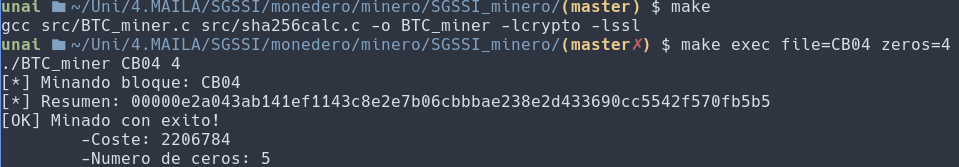
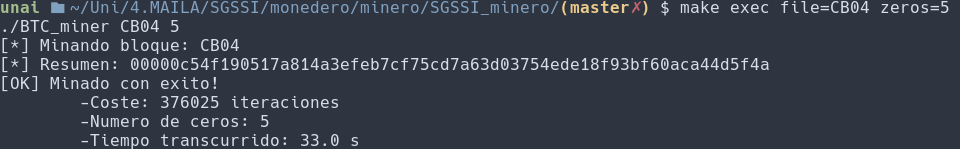
code fixes & comment and README.md update

Changed region(s): [[0.0, 0.0, 0.9979, 0.9933]]

diff --git a/src/BTC_miner.c b/src/BTC_miner.c
@@ -1,3 +1,13 @@
+/*=========================================================================
+ *
+ *  Author: Unai Fernandez
+ *  Date: 2021-10-19
+ *
+ *  Execute:
+ *	./BTC_miner <file> <number>
+ *
+ ==========================================================================*/
+
 #include <stdio.h>
 #include <stdlib.h>
 #include <errno.h>
@@ -6,22 +16,18 @@
 #include <string.h>
 #include <time.h>
 
+#include "BTC_miner.h"
 #include "sha256calc.h"
 
-#define MAX_LINE_LENGTH 64
-
-void __error(int cod, char *s);
-void copy_file(FILE *f1, char *filename, FILE *f2, char new_filename[20], char hex[9]);
-void copy_file_final(FILE *f1, char filename[20], FILE *f2, char new_filename[20]);
-void random_hex(char hex[9], uint32_t n);
-int count_zeros(char hash[65]);
-
+/*
+ * Función principal
+ */
 int main(int argc, char * argv[]){
     
     //Comprobar los argumentos
     if(argc != 3){
 	printf("ERROR: Bad argument!");
-	printf("\nUse: ./BTC_miner file");
+	printf("\nUse: ./BTC_miner <file> <number>");
 	exit(0);
     }
 
@@ -35,27 +41,25 @@ int main(int argc, char * argv[]){
     
     time_t start, end;
     double dif;
-    //int sec = 0, trigger = 60;
-    //clock_t before = clock();
-    //clock_t difference;
     //n = 0;
 
 
     //Nombre del nuevo fichero
     filename = argv[1];
     max = atoi(argv[2]);
+    max--;
     sprintf(new_filename, "new_%s", filename);
     sprintf(final_filename, "final_%s", filename);
-    //printf("New:%s\n", new_filename);
 
+
+    //Inicio del minado del bloque
     printf("[*] Minando bloque: %s\n", filename);
 
     time(&start);
     while(find == 0){
-    //while(sec < trigger){
-	//difference = clock() - before;
-	//sec = difference / CLOCKS_PER_SEC;
+	//sumar iteraciones
 	iter++;
+	
 	//Calcular hexadecimal aleatorio e insertarlo en el bloque
 	random_hex(hex_num, n);
 	//n++;
@@ -63,7 +67,6 @@ int main(int argc, char * argv[]){
     
 	//Hash del fichero
 	sha256_file(new_filename, hash1);
-	//printf("hash: %s\n", hash1);
 
 	//contar el numero de ceros
 	count = count_zeros(hash1);
@@ -80,10 +83,13 @@ int main(int argc, char * argv[]){
 
 
     printf("[*] Resumen: %s\n", hash1);
-    printf("[OK] Minado con exito!\n	-Coste: %d\n	-Numero de ceros: %d\n	-Tiempo transcurrido:%1.1f s\n", iter, count, dif);
+    printf("[OK] Minado con exito!\n	-Coste: %d iteraciones\n	-Numero de ceros: %d\n	-Tiempo transcurrido: %1.1f s\n", iter, count, dif);
     
 }
 
+/*
+ * Función para printear el error.
+ */
 void __error(int cod, char *s){
     switch(cod){
 	case 0:
@@ -95,16 +101,19 @@ void __error(int cod, char *s){
     exit(0);
 }
 
+/*
+ * Función para guardar un valor hexadecimal aleatorio en la variable hex
+ */
 void random_hex(char hex[9], uint32_t n){
-   
-
     FILE * f = fopen("/dev/urandom", "rb");
     fread(&n, sizeof(uint32_t), 1, f);
     sprintf(hex, "%08x", n);
-    //printf("hex: %s\n", hex);
     fclose(f);
 }
 
+/*
+ * Función para copiar el contenido del bloque original al nuevo y añadir la linea con el numero hexadecimal
+ */
 void copy_file(FILE *f1, char *filename, FILE *f2, char new_filename[20], char hex[9]){
     
     char line[MAX_LINE_LENGTH];
@@ -129,28 +138,9 @@ void copy_file(FILE *f1, char *filename, FILE *f2, char new_filename[20], char h
 
 }
 
-void copy_file_final(FILE *f1, char filename[20], FILE *f2, char new_filename[20]){
-    
-    char line[MAX_LINE_LENGTH];
-    //Abrir los documentos
-    if((f1 = fopen(filename, "r")) == NULL){
-	__error(0, "No se ha encontrado el fichero");
-    }
-    if((f2 = fopen(new_filename, "a+")) == NULL){
-	__error(0, "No se ha encontrado el fichero");
-    }
-
-    //Copiar lso documentos
-    while(fgets(line, sizeof(line), f1) != NULL){
-	fprintf(f2, line);
-    }
-
-    fclose(f1);
-    fclose(f2);
-
-
-}
-
+/*
+ * Función para contar los ceros que hay.
+ */
 int count_zeros(char hash[65]){
     int counter, i;
     counter = 0;

diff --git a/src/BTC_miner.h b/src/BTC_miner.h
@@ -1,0 +1,8 @@
+#define MAX_LINE_LENGTH 64	    //Longitud maxima de la linea
+
+void __error(int cod, char *s);	    //Función error
+void copy_file(FILE *f1, char *filename, FILE *f2, char new_filename[20], char hex[9]);	    //Función para copiar contenido del fichero
+void random_hex(char hex[9], uint32_t n);	//Función para calcular valor hexadecimal
+int count_zeros(char hash[65]);	    //Función para contar ceros
+
+

diff --git a/README.md b/README.md
@@ -7,7 +7,7 @@ La estructura de un bloque es la siguiente:
 * identificador del bloque anterior 
 * Resúmenes sha256 
 
-El objetivo del minero en es conseguir que el resumen del último bloque tenga la mayor cantidad de ceros al principio del resumen sha256 del bloque. Mediante este programa, se calculan resúmenes dependiendo de los parámetros que se le pongan al principio. 
+El objetivo del minero en es conseguir que el resumen del último bloque tenga la mayor cantidad de ceros al principio del resumen sha256 del bloque. Mediante este programa, se calcula el resumen con la cantidad de ceros establecida en el segundo parametro. 
 
 ## Instrucciones de uso 
 
@@ -19,17 +19,21 @@ El objetivo del minero en es conseguir que el resumen del último bloque tenga l
 
     make exec file=CBXX zeros=N 
 
-A la variable *file* se le asigna el nombre del bloque y a la variable *zeros* el número de ceros que se quiere como mínimo. 
+A la variable *file* se le asigna el nombre del bloque (*CB04* en este caso, porque es el unico bloque diponible en el repositorio) y a la variable *zeros* el número de ceros que se quiere como mínimo. 
 
 **Para hacer clean ejecuta:** 
     
     make clean 
 
+De esta manera se eliminan todos los archivo .o generados y tambien el ejecutable y el nuevo bloque.
+
 ![Ejemplo de ejecución](images/minero_img.png "Ejemplo de ejecución") 
 
 ## Integridad de los archivos 
 
-**BTC_miner.c:** c59056d49067bfbc1cc18eaf50ed581e 
+**BTC_miner.c:** 1079fac6e4d210e112c7b689caa1edc2 
+
+**BTC_miner.h:** 4512cb152663c072b033836ff7b328f7 
 
 **sha256calc.c:** 043d24299581d40972cd55ad8cb80705 
 
